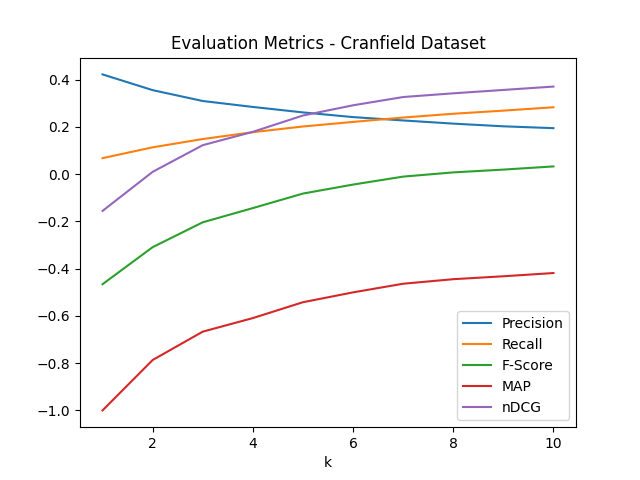
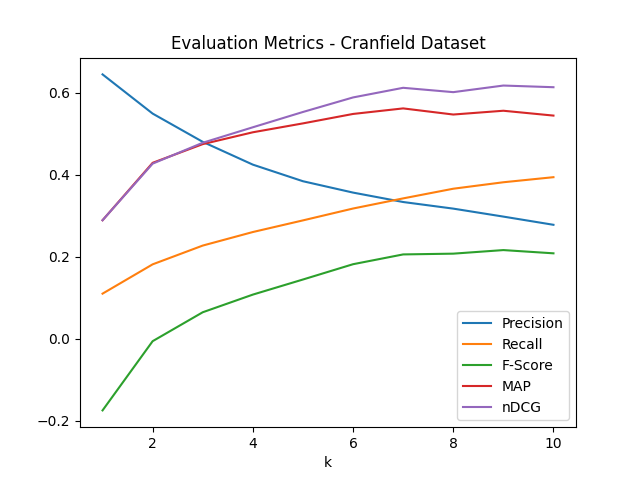
Third Commit

diff --git a/informationRetrieval.py b/informationRetrieval.py
@@ -2,76 +2,121 @@ from util import *
 
 # Add your import statements here
 from collections import Counter
-
+import math
+import numpy as np
 
 
 class InformationRetrieval():
 
-	def __init__(self):
-		self.index = None
+    def __init__(self):
+        self.index = None
+        self.IDF = None
+        self.docVectors = None
 
-	def buildIndex(self, docs, docIDs):
-		"""
-		Builds the document index in terms of the document
-		IDs and stores it in the 'index' class variable
+    def buildIndex(self, docs, docIDs):
+        """
+        Builds the document index in terms of the document
+        IDs and stores it in the 'index' class variable
 
-		Parameters
-		----------
-		arg1 : list
-			A list of lists of lists where each sub-list is
-			a document and each sub-sub-list is a sentence of the document
-		arg2 : list
-			A list of integers denoting IDs of the documents
-		Returns
-		-------
-		None
-		"""
+        Parameters
+        ----------
+        arg1 : list
+                A list of lists of lists where each sub-list is
+                a document and each sub-sub-list is a sentence of the document
+        arg2 : list
+                A list of integers denoting IDs of the documents
+        Returns
+        -------
+        None
+        """
 
-		index = {}
-		for doc, docID in zip(docs, docIDs):
-			for sentence in doc:
-				for word in sentence:
-					if word in index:
-						if docID not in index[word]:
-							index[word].append(docID)
-					else:
-						index[word]=[docID]
+        index = {}
 
-		self.index = index
+        for doc, docID in zip(docs, docIDs):
+            for sentence in doc:
+                for word in sentence:
+                    if word not in ['.' , ',', '?', '!']:
+                        if word in index:
+                            if docID not in index[word]:
+                                index[word].append(docID)
+                        else:
+                            index[word] = [docID]
 
+        self.index = index
 
-	def rank(self, queries):
-		"""
-		Rank the documents according to relevance for each query
+        terms = [*self.index]
 
-		Parameters
-		----------
-		arg1 : list
-			A list of lists of lists where each sub-list is a query and
-			each sub-sub-list is a sentence of the query
-		
+        D = len(docs)
+        tfs, IDF = [], []
+        for doc in docs:
+            tf = []
+            for term in terms:
+                tf.append(sum([sentence.count(term) for sentence in doc]))
+            tfs.append(tf)
 
-		Returns
-		-------
-		list
-			A list of lists of integers where the ith sub-list is a list of IDs
-			of documents in their predicted order of relevance to the ith query
-		"""
+        for term in terms:
+            idf = math.log(D/len(self.index[term]))
+            IDF.append(idf)
 
-		doc_IDs_ordered_all = []
+        tfs = np.asarray(tfs)
 
-		for query in queries:
-			docList= []
-			for sentence in query:
-				for word in sentence:
-					if word in self.index:
-						docList.extend(self.index[word])
+        self.IDF = np.asarray(IDF)
+        self.docVectors = np.multiply(tfs, self.IDF)
 
-			doc_IDs_ordered_all.append([key for key, value in Counter(docList).most_common()])
-						
+    def rank(self, queries):
+        """
+        Rank the documents according to relevance for each query
 
-		return doc_IDs_ordered_all
-
-
+        Parameters
+        ----------
+        arg1 : list
+                A list of lists of lists where each sub-list is a query and
+                each sub-sub-list is a sentence of the query
 
 
+        Returns
+        -------
+        list
+                A list of lists of integers where the ith sub-list is a list of IDs
+                of documents in their predicted order of relevance to the ith query
+        """
+
+        doc_IDs_ordered_all = []
+
+        terms = [*self.index]
+
+        for query in queries:
+            sim_docs = {}
+            tf = []
+            for term in terms:
+                tf.append(sum([sentence.count(term) for sentence in query]))
+            tfVector = np.asarray(tf)
+            queryVector = np.multiply(tfVector, self.IDF)
+
+            for docID, docVector in zip(range(1, len(self.docVectors)+1), self.docVectors):
+                try:
+                    dot = np.dot(queryVector, docVector)
+                    if dot == 0:
+                        sim_docs[docID] = 0.0
+                    else:
+                        normD = np.linalg.norm(docVector)
+                        normQ = np.linalg.norm(queryVector)
+                        cosine = dot/normD/normQ
+                        sim_docs[docID] = cosine
+                except:
+                    pass
+
+            doc_IDs_ordered_all.append(sorted(sim_docs, key=sim_docs.get, reverse=True))
+
+        
+        # for query in queries:
+        # 	docList = []
+        # 	for sentence in query:
+        # 		for word in sentence:
+        # 			if word in self.index:
+        # 				docList.extend(self.index[word])
+
+        # 	doc_IDs_ordered_all.append(
+        # 	    [key for key, value in Counter(docList).most_common()])
+
+        return doc_IDs_ordered_all

diff --git a/evaluation.py b/evaluation.py
@@ -37,6 +37,9 @@ class Evaluation():
         rel_and_ret = list(set(relevant) & set(retrieved))
         precision = len(rel_and_ret)/len(retrieved)
 
+        # if precision==0:
+        #     print('query_id: ', query_id ,', Retrieved Docs: ', retrieved,', Relevant Docs: ', relevant)
+
         return precision
 
     def meanPrecision(self, doc_IDs_ordered, query_ids, qrels, k):
@@ -174,7 +177,7 @@ class Evaluation():
 
         fscore = -1
 
-        retrieved = query_doc_IDs_ordered[:k]
+        retrieved = query_doc_IDs_ordered
         relevant = true_doc_IDs
 
         try:
@@ -184,6 +187,7 @@ class Evaluation():
             fscore = 2*P*R/(P+R)
         except:
             pass
+
 
         return fscore
 
@@ -347,7 +351,7 @@ class Evaluation():
             for i in range(k):
                 if retrieved[i] in relevant:
                     rel += 1
-                    precisions.append(rel/i)
+                    precisions.append(rel/(i+1))
 
             avgPrecision=sum(precisions)/len(precisions)
         except:

diff --git a/main.py b/main.py
@@ -155,6 +155,8 @@ class SearchEngine:
             [item["query"] for item in queries_json]
         # Process queries
         processedQueries = self.preprocessQueries(queries)
+        # query_ids = [1]
+        # processedQueries = [[['Plant', 'eater']]]
 
         # Read documents
         docs_json = json.load(open(args.dataset + "cran_docs.json", 'r'))[:]
@@ -162,6 +164,10 @@ class SearchEngine:
             [item["body"] for item in docs_json]
         # Process documents
         processedDocs = self.preprocessDocs(docs)
+        # doc_ids = [1, 2, 3]
+        # processedDocs = [[['Herbivore', 'typical', 'plant', 'eater', 'meat', 'eater']],
+        #                  [['Carnivore', 'typical', 'meat', 'eater', 'plant', 'eater']],
+        #                  [['Deer', 'eat', 'grass', 'leav']]]
 
         # Build document index
         self.informationRetriever.buildIndex(processedDocs, doc_ids)
